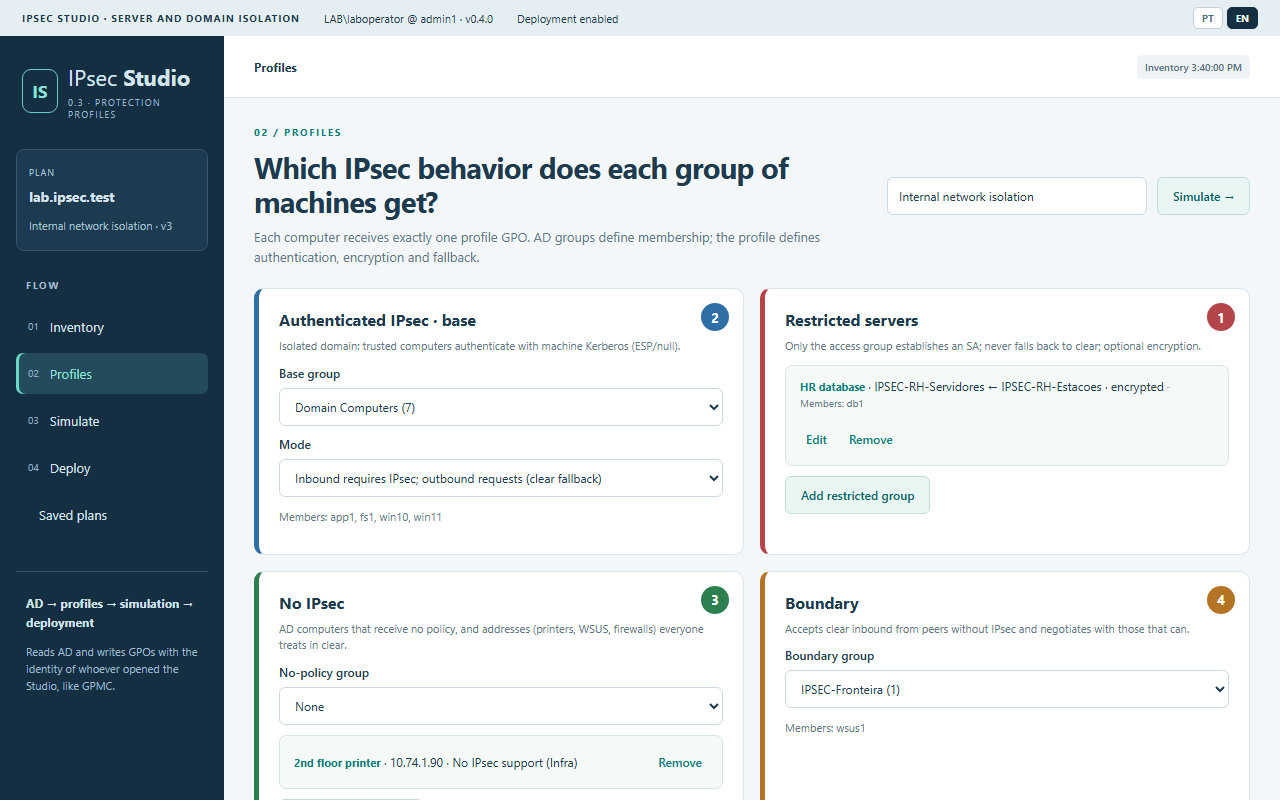
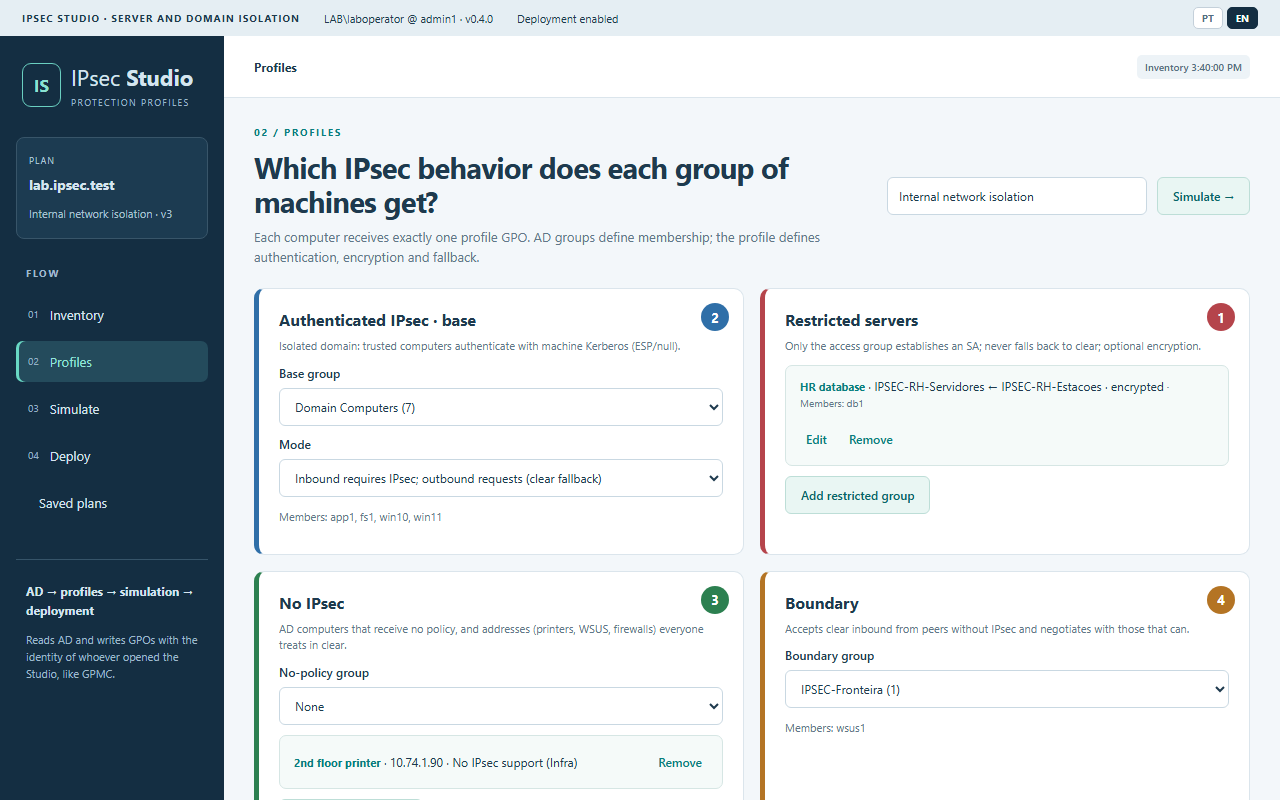
Release 0.4.0 preparation: one version everywhere (csproj 0.4.0, no version frozen in the UI), complete 0.4.0 changelog with known limitations, PT/EN release notes with hash check, CI publishes the GitHub release from a v* tag (separate job, the only one allowed to write), release consistency test i

diff --git a/app/IpsecStudio/wwwroot/i18n.js b/app/IpsecStudio/wwwroot/i18n.js
@@ -2,7 +2,7 @@
 // UI strings. pt-BR is the default; the last choice is kept in localStorage and sent to the backend as X-Lang.
 const I18N = {
   pt: {
-    tagline: 'IPSEC STUDIO · SERVER AND DOMAIN ISOLATION', brandSub: '0.3 · PERFIS DE PROTEÇÃO', plan: 'PLANO', flow: 'FLUXO', notConnected: 'Não conectado', noPlan: 'Nenhum plano aberto', draft: 'Rascunho não salvo',
+    tagline: 'IPSEC STUDIO · SERVER AND DOMAIN ISOLATION', brandSub: 'PERFIS DE PROTEÇÃO', plan: 'PLANO', flow: 'FLUXO', notConnected: 'Não conectado', noPlan: 'Nenhum plano aberto', draft: 'Rascunho não salvo',
     sideNote: 'AD → perfis → simulação → implantação', sideNoteText: 'Lê o AD e grava GPOs com a identidade de quem abriu o Studio, como o GPMC.',
     noInventory: 'Sem inventário', inventoryAt: 'Inventário {0}', deployOn: 'Implantação habilitada', readOnly: 'Somente leitura', processing: 'processando…', connecting: 'Conectando ao serviço local…',
     nav: { inventory: 'Inventário', profiles: 'Perfis', simulate: 'Simular', deploy: 'Implantar', saved: 'Planos salvos' },
@@ -33,7 +33,7 @@ const I18N = {
     actions: { inventory: 'Inventário', plan: 'Plano', assess: 'Avaliar', save: 'Salvar', compile: 'Compilar', apply: 'Aplicar', rollback: 'Reverter', probe: 'Sondar', open: 'Abrir', plans: 'Planos' },
   },
   en: {
-    tagline: 'IPSEC STUDIO · SERVER AND DOMAIN ISOLATION', brandSub: '0.3 · PROTECTION PROFILES', plan: 'PLAN', flow: 'FLOW', notConnected: 'Not connected', noPlan: 'No plan open', draft: 'Unsaved draft',
+    tagline: 'IPSEC STUDIO · SERVER AND DOMAIN ISOLATION', brandSub: 'PROTECTION PROFILES', plan: 'PLAN', flow: 'FLOW', notConnected: 'Not connected', noPlan: 'No plan open', draft: 'Unsaved draft',
     sideNote: 'AD → profiles → simulation → deployment', sideNoteText: 'Reads AD and writes GPOs with the identity of whoever opened the Studio, like GPMC.',
     noInventory: 'No inventory', inventoryAt: 'Inventory {0}', deployOn: 'Deployment enabled', readOnly: 'Read only', processing: 'working…', connecting: 'Connecting to the local service…',
     nav: { inventory: 'Inventory', profiles: 'Profiles', simulate: 'Simulate', deploy: 'Deploy', saved: 'Saved plans' },

diff --git a/app/IpsecStudio/wwwroot/app.js b/app/IpsecStudio/wwwroot/app.js
@@ -1,5 +1,5 @@
 'use strict';
-// IPsec Studio 0.3 — plan the five protection profiles, simulate Windows IPsec outcomes, deploy GPOs, verify and probe.
+// IPsec Studio — plan the five protection profiles, simulate Windows IPsec outcomes, deploy GPOs, verify and probe.
 const state = { status: null, inventory: null, draft: null, saved: null, assessment: null, matrix: null, compilation: null, log: [], hosts: null, probe: null, plans: [], page: 'inventory', filter: '', busy: false, wave: 0, waveResult: null, approval: '', drift: null, ackDrift: false, capture: false, settleUntil: 0, pendingDcs: [] };
 // After a policy change the probe waits ~2 minutes (CV4.DS7): Windows keeps a recent clear fallback with boundary hosts for a while.
 const SETTLE_MS = 120000;

diff --git a/docs/release-notes/0.4.0.md b/docs/release-notes/0.4.0.md
@@ -1,0 +1,63 @@
+## Português
+
+**IPsec Studio 0.4.0** planeja, simula, aplica em ondas, verifica e reverte o isolamento de servidores e de domínio (Server and Domain Isolation) com o IPsec nativo do Windows. A identidade usada é a sua, de administrador.
+
+### Novidades
+- **Ondas com aprovação:** a adesão aos grupos de perfil é feita aos poucos, com nota de aprovação obrigatória e registro de cada ação. Se uma onda falhar, a expansão para.
+- **Identidade das máquinas:** cada host mostra se o ticket Kerberos já reflete a última mudança de grupo e pode ser renovado na hora.
+- **Alterações fora do Studio:** antes de aplicar ou reverter, o Studio confere as GPOs `IpsecStudio-*` e procura outras GPOs com regras IPsec (cerca de 1,4 s para 300 GPOs). Qualquer diferença bloqueia a ação até ser reconhecida.
+- **No fio:** a sondagem pode capturar o tráfego e contar os pacotes cifrados (ESP) e as conexões em claro.
+- **Saída *Require*** só por opção explícita, com alerta. Por padrão, a saída é *Request*, que não corta o acesso a hosts sem IPsec.
+- **Vários controladores de domínio:** gravação no PDC, espera pela replicação e indicação dos DCs pendentes.
+- **Reverter** remove as GPOs do Studio e atualiza os hosts.
+
+### Limites conhecidos
+- Active Directory com vários sites não foi testado.
+- Políticas IPsec antigas (*IP Security Policies*) não são detectadas.
+- O alcance de outras GPOs não considera herança bloqueada, vínculo imposto nem filtragem por grupo.
+- O pacote não tem assinatura de código.
+- O laboratório não substitui um piloto na sua rede: comece por uma onda pequena.
+
+### Requisitos
+Estação ou servidor de administração no domínio, com RSAT (módulos ActiveDirectory, GroupPolicy e NetSecurity), e WinRM habilitado nos hosts. O pacote é autocontido: não exige instalar o .NET.
+
+### Conferir o pacote
+Compare o SHA-256 do zip com o arquivo `.sha256` publicado junto:
+
+```powershell
+Get-FileHash .\ipsec-studio-v0.4.0-win-x64.zip -Algorithm SHA256
+```
+
+Guia de instalação: [docs/pt-br/instalacao.md](https://github.com/rodrigoimmaginario/ipsec-studio/blob/main/docs/pt-br/instalacao.md) · Site: https://rodrigoimmaginario.github.io/ipsec-studio/
+
+## English
+
+**IPsec Studio 0.4.0** plans, simulates, applies in waves, verifies and rolls back Server and Domain Isolation with built-in Windows IPsec, using your own administrator identity.
+
+### What's new
+- **Waves with approval:** profile-group membership is added step by step, with a required approval note and every action logged; expansion stops if a wave fails.
+- **Machine identity:** each host shows whether its Kerberos ticket already reflects the last group change, and can be renewed on the spot.
+- **Changes outside the Studio:** before apply or rollback, the Studio checks the `IpsecStudio-*` GPOs and finds other GPOs with IPsec rules (about 1.4 s for 300 GPOs). Any difference blocks the action until it is acknowledged.
+- **On the wire:** the probe can capture traffic and count encrypted (ESP) packets and clear connections.
+- **Outbound *Require*** only as an explicit option, with a warning; by default outbound is *Request*, which does not cut access to hosts without IPsec.
+- **Several domain controllers:** writes on the PDC, wait for replication, pending DCs shown.
+- **Rollback** removes the Studio GPOs and refreshes the hosts.
+
+### Known limitations
+- Active Directory with several sites has not been tested.
+- Legacy IPsec policies (*IP Security Policies*) are not detected.
+- The reach of other GPOs ignores blocked inheritance, enforced links and security filtering.
+- The package is not code-signed.
+- The lab does not replace a pilot on your network: start with a small wave.
+
+### Requirements
+A domain-joined administration workstation or server with RSAT (ActiveDirectory, GroupPolicy and NetSecurity modules), and WinRM enabled on the hosts. The package is self-contained: no .NET install needed.
+
+### Check the package
+Compare the zip's SHA-256 with the `.sha256` file published next to it:
+
+```powershell
+Get-FileHash .\ipsec-studio-v0.4.0-win-x64.zip -Algorithm SHA256
+```
+
+Installation guide: [docs/en/install.md](https://github.com/rodrigoimmaginario/ipsec-studio/blob/main/docs/en/install.md) · Site: https://rodrigoimmaginario.github.io/ipsec-studio/

diff --git a/CHANGELOG.md b/CHANGELOG.md
@@ -1,12 +1,24 @@
 # Changelog
 
-## 0.4.0 — 2026-10-28
+## 0.4.0 — 2026-11-02
+
+Operation: waves, identity, changes outside the Studio, on-the-wire evidence and several domain controllers.
 
 - Waves: ordered membership additions to profile groups, written to AD by the Studio (SID only), with per-wave refresh/verify/probe and automatic stop of expansion on failure; per-wave simulation.
 - Group preparation: new security groups created from the plan before being referenced.
 - Approval note required for apply, group preparation and wave apply; stored in the execution log with the Windows identity.
-- Script runner behind an interface; deployment orchestration covered by unit tests (coverage gate now includes Deployment.cs).
-- Shared regression scenarios include `waves`; lab regression PASS 5/5.
+- Identity propagation: per-host machine-ticket age versus the last profile-group change ("identity pending"), and per-host renew (ticket purge, gpupdate, SA cleanup).
+- Changes outside the Studio: before apply or rollback, the `IpsecStudio-*` GPOs are compared with the compilation (rules, crypto sets, ICMP) and other GPOs with IPsec rules are found by an LDAP search on the IPsec client-side extension (313 GPOs in about 1.4 s instead of 31.4 s), with their reach in the plan. Any difference blocks the action until it is acknowledged; the acknowledgement is logged. A GPO with no active link is listed but does not block.
+- On the wire: optional packet capture on the responders during the probe, counting ESP packets, clear connections accepted and clear attempts per pair; the capture is deleted from the host.
+- Outbound: restricted and quarantine profiles use Require/Request. Outbound Require is only an explicit option, with a clear warning, because it cuts traffic to hosts without IPsec on the secure subnets. Optional outside-reachability check for verified hosts.
+- Rollback refreshes the hosts; the Studio host goes first on apply and last on rollback.
+- Several domain controllers: writes pinned to the PDC emulator, wait for GPO and group replication (configurable, 0–3600 s, default 180) and the pending DCs shown; refresh runs as a temporary SYSTEM scheduled task, one host at a time.
+- Probe waits about 2 minutes after a change and retries before reporting a clear connection.
+- The interface shows the version from the server instead of a fixed number.
+- Script runner behind an interface; deployment orchestration covered by unit tests (coverage gate includes Deployment.cs). 105 tests.
+- Lab regression (12 machines, 2 DCs, including one DC shut down): PASS.
+
+Known limitations: Active Directory with several sites not tested; legacy IPsec policies (IP Security Policies) not detected; the reach of other GPOs ignores blocked inheritance, enforced links and security filtering; group changes made outside the Studio are not checked against the DC that issued the machine ticket; the package is not code-signed.
 
 ## 0.3.0 — 2026-10-27
 
